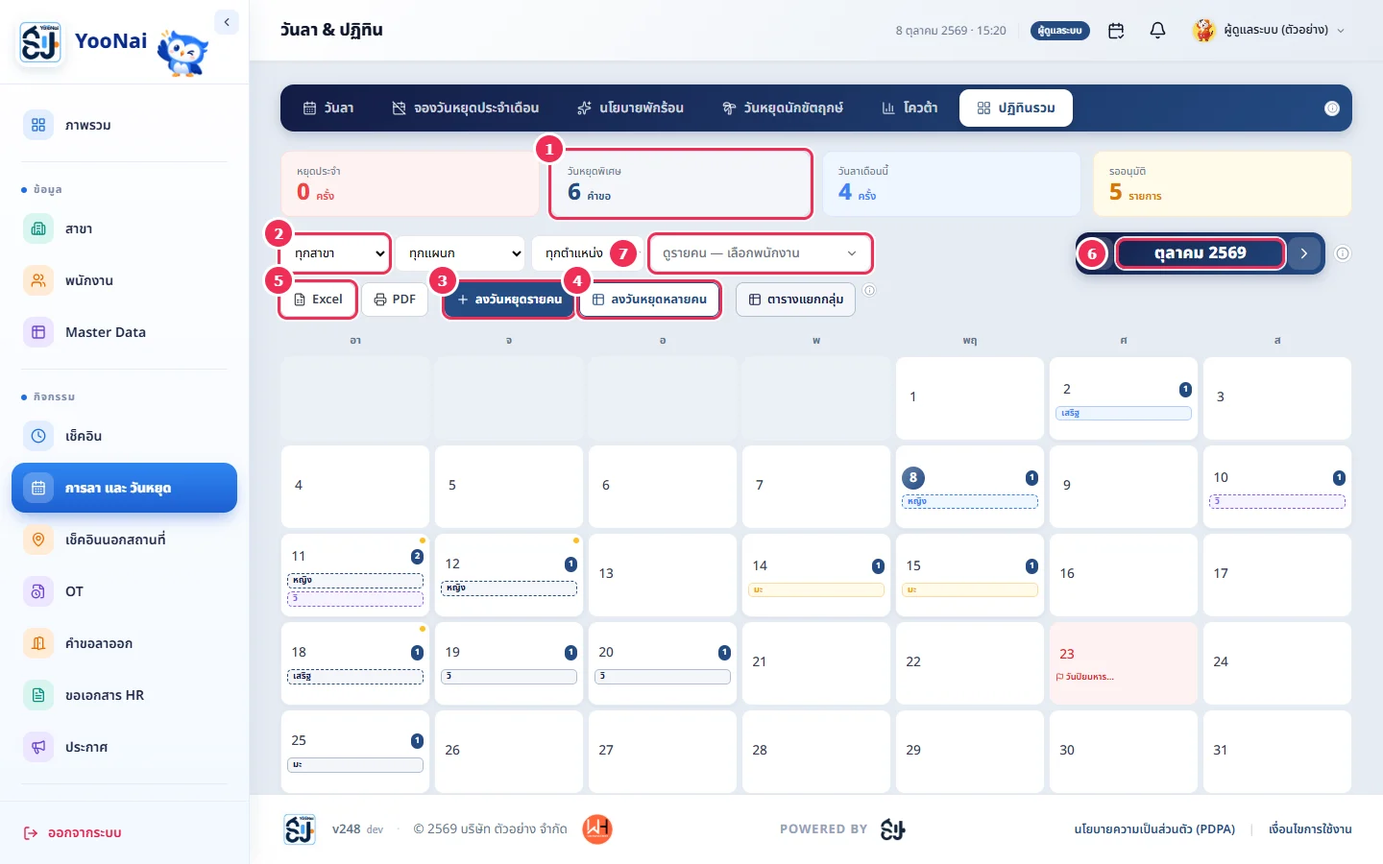
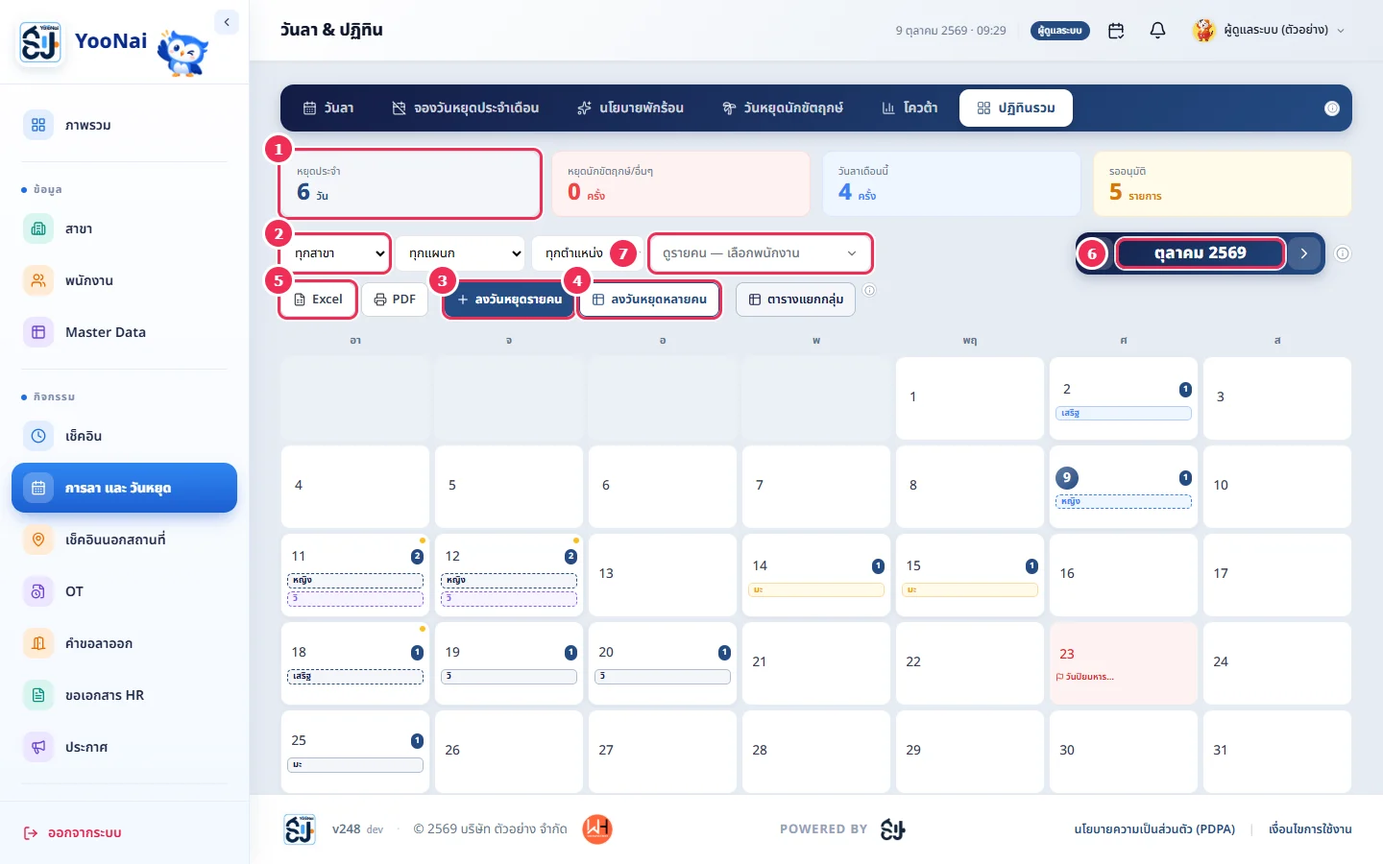
Docs: persona/journey/process doc; refresh team-calendar manual shot

diff --git a/scripts/manual-shots/shots_def.js b/scripts/manual-shots/shots_def.js
@@ -136,7 +136,7 @@ module.exports = [
     ] },
   { id: 'team-calendar', path: 'leave', setup: async (p, { clickText, sleep }) => { await clickText(p, 'ปฏิทินรวม', 'button, a, div'); await sleep(1500) },
     marks: [
-      { text: 'วันหยุดพิเศษ', tag: 'div', n: 1, card: true },
+      { text: 'หยุดประจำ', exact: true, tag: 'div', n: 1, card: true },
       { selector: 'select', n: 2, nth: 0 },
       { text: 'ลงวันหยุดรายคน', tag: 'button', n: 3 },
       { text: 'ลงวันหยุดหลายคน', tag: 'button', n: 4 },

diff --git a/docs/PERSONA_JOURNEY_PROCESS.md b/docs/PERSONA_JOURNEY_PROCESS.md
@@ -1,0 +1,198 @@
+# YooNai / TimeLine HR — User Persona, Journey Map และขั้นตอนการทำงาน
+
+> เอกสารนี้เขียนเพื่อนำเข้า NotebookLM แล้วสร้างสไลด์ — ทุกหัวข้อใหญ่ (`##`) = 1 กลุ่มสไลด์ · ตารางและรายการสั้นๆ ใช้เป็นเนื้อสไลด์ได้ตรงๆ
+> ที่มาของข้อมูล: โครงสร้างระบบจริง (`docs/SYSTEM_OVERVIEW.md`, `PRODUCT.md`) + ปัญหาที่ผู้ใช้แจ้งระหว่างพัฒนา
+> **หมายเหตุ:** Persona เป็น **proto-persona** สร้างจากบทบาทในระบบและปัญหาที่เกิดขึ้นจริง ชื่อเป็นชื่อสมมติ ยังไม่ได้ผ่านการสัมภาษณ์ผู้ใช้ — ควรยืนยันกับลูกค้าจริงก่อนนำเสนอเป็นผลวิจัย
+
+---
+
+## 1. ภาพรวมผลิตภัณฑ์ (สไลด์เปิด)
+
+**YooNai (TimeLine HR)** — ระบบ HR แบบ SaaS multi-tenant สำหรับบริษัท SME ไทย ขายให้ลูกค้าหลายบริษัทผ่าน Vendor
+
+| ส่วน | ผู้ใช้ | ช่องทาง |
+|---|---|---|
+| Admin (เว็บ) | HR, ผู้จัดการ, ผู้บริหาร, เจ้าของระบบ | Web App |
+| Employee (มือถือ) | พนักงานทุกคน | LINE LIFF |
+| Super Admin | ทีมผู้พัฒนา/ขาย (Vendor) | Web App แยก |
+
+**ความสามารถหลัก:** เช็คอินตามกะ (GPS / QR / Geofence) · ลา และ วันหยุด · จองวันหยุดประจำสัปดาห์ · OT · คำขอลาออก · ขอเอกสาร HR · ประกาศ · รายงาน · บันทึกกิจกรรม
+
+**หลักการออกแบบ:** ใช้ได้ทันทีโดยไม่ต้องฝึก · ข้อมูลที่ต้องการเจอใน 1–2 คลิก · ออกแบบสำหรับภาษาไทย · Workflow มาก่อนความสวย · ใช้ได้บนมือถือ
+
+---
+
+## 2. User Persona
+
+### Persona 1 — HR Admin ("พี่นุ่น", 34, ผู้ใช้หลัก)
+
+| หัวข้อ | รายละเอียด |
+|---|---|
+| บทบาท | HR/ธุรการ ดูแลพนักงาน 30–150 คน หลายสาขา |
+| ใช้ระบบ | ทุกวันบนคอมพิวเตอร์ในสำนักงาน |
+| เป้าหมาย | รู้ว่าวันนี้ใครมา/สาย/ลา · อนุมัติคำขอให้ทัน · ปิดรายงานสิ้นเดือนได้ไม่ต้องคีย์ซ้ำ |
+| งานประจำ | ตรวจเช็คอินตอนเช้า · อนุมัติลา/OT · ลงวันหยุดให้พนักงาน · ออกเอกสารรับรอง · ส่งรายงานให้ผู้บริหาร |
+| Pain point | ข้อมูลกระจาย (Excel, LINE กลุ่ม) · พนักงานลืมเช็คอินแล้วต้องลงแทน · ต้องไล่ดูว่าใครโควต้าหยุดเหลือเท่าไร · ลืมรหัสผ่านต้องรอคนช่วย |
+| ความคาดหวัง | หน้าเดียวเห็นภาพรวม · สีและสถานะแยกออกทันที · ไม่ต้องมีคู่มือหนา |
+| ความเสี่ยงถ้าระบบไม่ดี | กลับไปใช้ Excel · ตัวเลขขาด/สายผิด ทำให้ทะเลาะกับพนักงาน |
+
+### Persona 2 — หัวหน้าสาขา / หัวหน้าแผนก ("พี่โอ๊ต", 41)
+
+| หัวข้อ | รายละเอียด |
+|---|---|
+| บทบาท | Manager / DEPT_HEAD เห็นเฉพาะแผนก/สาขาที่ดูแล |
+| ใช้ระบบ | มือถือเป็นหลัก ระหว่างเดินงานหน้าร้าน |
+| เป้าหมาย | อนุมัติลา/OT เร็ว · รู้ว่ากะพรุ่งนี้คนพอไหม · ไม่ต้องเข้าเว็บบ่อย |
+| Pain point | แจ้งเตือนมาแล้วไม่รู้ว่าอนุมัติแล้วหรือยัง · ปฏิทินรวมอ่านยาก · ตารางบนมือถือเลื่อนยาก |
+| ความคาดหวัง | อนุมัติได้ในไม่กี่แตะ · ปัดเปลี่ยนหน้าบนมือถือได้ · เห็นเฉพาะข้อมูลที่รับผิดชอบ |
+
+### Persona 3 — พนักงานหน้างาน ("น้องเหมียว", 26)
+
+| หัวข้อ | รายละเอียด |
+|---|---|
+| บทบาท | พนักงานประจำกะ ทำงานตามสาขา |
+| ใช้ระบบ | มือถือผ่าน LINE ไม่ติดตั้งแอปเพิ่ม วันละ 2 ครั้ง (เข้า/ออก) |
+| เป้าหมาย | เช็คอินให้เสร็จใน 10 วินาที · ขอลา/จองวันหยุดโดยไม่ต้องทักหัวหน้า · เห็นวันหยุดและวันลาของตัวเอง |
+| Pain point | GPS ไม่แม่น เช็คอินไม่ผ่าน · ไม่แน่ใจว่าโดนหักเพราะสายหรือไม่ · ไม่รู้ว่าเหลือวันหยุดกี่วัน · หน้าจอค้างเลื่อนไม่ได้หลังเช็คอิน (เคยเกิด แก้แล้ว) |
+| ความคาดหวัง | หน้าจอเป็นมิตร ปุ่มใหญ่ ภาษาง่าย · ได้รับการยืนยันทันทีว่าเช็คอินสำเร็จ |
+
+### Persona 4 — ผู้บริหาร ("คุณบอส", 52, อ่านอย่างเดียว)
+
+| หัวข้อ | รายละเอียด |
+|---|---|
+| บทบาท | EXECUTIVE ดูข้อมูลทุกสาขา ไม่แก้ไข ไม่เช็คอินเอง |
+| ใช้ระบบ | ดูสรุปสัปดาห์ละไม่กี่ครั้ง |
+| เป้าหมาย | เห็นภาพรวมการมาทำงาน สาย ลา ต้นทุนค่าปรับ รายสาขา |
+| Pain point | ถูกนับเป็น "ยังไม่เช็ค/ขาด" ทั้งที่ไม่ต้องเช็คอิน (แก้แล้ว: ตั้งค่า "ไม่ต้องเช็คอิน") |
+| ความคาดหวัง | รายงานสรุปอ่านจบใน 1 หน้า · ไม่ต้องเรียนรู้เมนูเยอะ |
+
+### Persona 5 — เจ้าของระบบฝั่งบริษัทลูกค้า (Root Admin, "คุณแพร", 45)
+
+| หัวข้อ | รายละเอียด |
+|---|---|
+| บทบาท | ผู้ตัดสินใจซื้อ/ดูแลบัญชีของบริษัท มีสิทธิ์สูงสุดใน tenant |
+| เป้าหมาย | คุมว่าใครเข้าถึงข้อมูลอะไร · มอบสิทธิ์ให้ผู้ใช้อื่นเอง |
+| กติกาสำคัญ | เฉพาะ Root Admin เท่านั้นที่มอบหรือยกระดับสิทธิ์ให้บัญชีอื่นได้ · Manager เข้าถึงข้อมูลเท่า Admin ยกเว้นการมอบสิทธิ์ |
+| Pain point | ผู้ใช้ลืมรหัสผ่านแล้วต้องมาขอรีเซ็ต · อยากรู้ว่าใครแก้อะไร |
+
+### Persona 6 — ทีม Vendor / Super Admin (ผู้พัฒนาและขาย)
+
+| หัวข้อ | รายละเอียด |
+|---|---|
+| เป้าหมาย | เปิดบริษัทใหม่ได้เร็ว (สร้าง tenant, ตั้ง LINE OA) · ย้ายข้อมูลจากระบบเดิม · ดูแลหลายลูกค้าโดยไม่พัง |
+| Pain point | ย้ายข้อมูลจากระบบเก่า (Firebase) มีข้อมูลสาขายังไม่ map · ต้อง deploy 3 เว็บ + เซิร์ฟเวอร์ |
+
+---
+
+## 3. Journey Map
+
+### 3.1 Journey ของ HR Admin — วงจรหนึ่งเดือน
+
+| ช่วง | สิ่งที่ทำ | จุดสัมผัส | ความรู้สึก | Pain point | โอกาส / ที่ระบบทำแล้ว |
+|---|---|---|---|---|---|
+| 1. เริ่มใช้งาน | รับบัญชี ตั้งรหัสผ่าน สร้างสาขา กะ พนักงาน | หน้า Login, คู่มือ /manual | กังวล | ไม่รู้เริ่มตรงไหน | คู่มือในระบบพร้อมภาพจริง · ตั้งพิกัดสาขา+รัศมี |
+| 2. เช้าทุกวัน | ดูแดชบอร์ด ใครมา/สาย/ยังไม่เช็ค | Dashboard, หน้าเช็คอิน | ตื่นตัว | ปนกันระหว่าง "ลา/หยุด" กับ "ยังไม่เช็ค" | แยกสี หยุด/ลา ขึ้นก่อน · การ์ดสรุปกดดูรายชื่อได้ |
+| 3. ระหว่างวัน | พนักงานลืมเช็คอิน ลงบันทึกแทน | หน้าเช็คอิน → "+ ลงบันทึก" | หงุดหงิด | ต้องกรอกเวลา/กะเอง | ลงแทนได้ · สายตามเวลาจริง |
+| 4. อนุมัติ | อนุมัติลา OT ลาออก ขอเอกสาร | เมนูตามงาน + ตัวเลขแจ้งเตือนบนเมนู | โล่งเมื่อเคลียร์หมด | งานรออนุมัติกระจายหลายหน้า | ป้ายตัวเลขบนเมนู + กระดิ่ง |
+| 5. วางแผนวันหยุด | ดูปฏิทินรวม ลงวันหยุดรายคน/หลายคน | การลา และ วันหยุด → ปฏิทินรวม | ปวดหัวช่วงสิ้นเดือน | ใครหยุดวันไหนดูยาก · โควต้าไม่ชัด | มุมมองรายคน · ลงหลายคนพร้อมกัน · การ์ดสรุปรายเดือน |
+| 6. สิ้นเดือน | ดึงรายงาน ส่งผู้บริหาร ออกเอกสาร | รายงาน, Excel/PDF, ขอเอกสาร HR | เหนื่อยแต่เร่ง | คีย์ซ้ำ ข้อมูลไม่ตรงกัน | รายงานหลายมุม · เอกสารรับรองสร้างในระบบ |
+| 7. เมื่อมีปัญหา | ลืมรหัสผ่าน / แก้ข้อมูลผิด | หน้าลืมรหัสผ่าน, บันทึกกิจกรรม | ตื่นตระหนก | ต้องรอคนรีเซ็ต | OTP ทางอีเมล · audit log ตรวจย้อนหลัง |
+
+**อารมณ์โดยรวม:** เริ่มกังวล → มั่นใจเมื่อเห็นภาพรวมตอนเช้า → เครียดช่วงปิดเดือน → ลดลงเมื่อรายงานออกเอง
+
+### 3.2 Journey ของพนักงาน — หนึ่งวันทำงาน
+
+| ช่วง | สิ่งที่ทำ | จุดสัมผัส | ความรู้สึก | Pain point | ที่ระบบทำแล้ว |
+|---|---|---|---|---|---|
+| 1. เริ่มใช้ครั้งแรก | กดลิงก์จาก LINE ผูกบัญชีกับชื่อตัวเอง | LINE OA, LIFF | ลังเล | กลัวผูกผิดคน | เลือกชื่อจากรายการ + ยืนยัน |
+| 2. ก่อนเข้างาน | เปิดแอปผ่าน LINE เช็คอิน | หน้าเช็คอิน (มาสคอตนกฮูก) | เร่งรีบ | GPS ไม่แม่น เช็คอินไม่ผ่าน | โหมดแจ้งเตือน (WARN) / บล็อก (BLOCK) · ต้องมี GPS ในโหมดบล็อก · สแกน QR ได้ |
+| 3. ผลลัพธ์ | เห็นสถานะ ตรงเวลา/สาย | ป๊อปอัปผลลัพธ์ | โล่ง หรือ เสียใจ | ไม่รู้ว่าโดนหักเท่าไร | แสดงระดับสาย ค่าปรับ ชัดเจน |
+| 4. ระหว่างเดือน | จองวันหยุดประจำสัปดาห์ ขอลา | เมนูวันลา / หยุด | คาดหวัง | ไม่รู้โควต้าเหลือ ไม่รู้วันไหนจองได้ | ปฏิทิน "วันหยุดของฉัน" รวมหยุด ลา นักขัตฤกษ์ ตามสิทธิ |
+| 5. รออนุมัติ | รอผลจากหัวหน้า | แจ้งเตือน LINE | กังวล | ไม่รู้ว่าถึงไหนแล้ว | สถานะรออนุมัติ/อนุมัติ/ปฏิเสธ + แจ้งผลทาง LINE |
+| 6. ตรวจสอบ | ดูประวัติเช็คอิน | หน้าประวัติ | สบายใจ/สงสัย | ข้อมูลผิดแก้ไม่ได้เอง | ดูประวัติรายเดือน · แจ้ง HR แก้ |
+| 7. ต้องการเอกสาร | ขอใบรับรองเงินเดือน / รับรองการทำงาน | ขอเอกสาร | ใจร้อน | ต้องรอ HR พิมพ์ | ยื่นคำขอในระบบ HR สร้างเอกสารให้ |
+
+### 3.3 Journey ของหัวหน้า — การอนุมัติจากมือถือ
+
+| ช่วง | สิ่งที่ทำ | จุดสัมผัส | Pain point | ที่ระบบทำแล้ว |
+|---|---|---|---|---|
+| 1. ได้รับแจ้ง | มีคำขอลา/OT ใหม่ | LINE / ป้ายตัวเลขบนเมนู | แจ้งเตือนหลุด | ป้ายตัวเลข + กระดิ่ง |
+| 2. ตรวจ | ดูปฏิทินว่าคนพอไหม | ปฏิทินรวมทีม | ปฏิทินแน่น อ่านยาก | มุมมองรายคน · ปัดเปลี่ยนหน้าบนมือถือ |
+| 3. ตัดสินใจ | อนุมัติ/ปฏิเสธ | หน้าคำขอ | ไม่แน่ใจโควต้า | แสดงโควต้า ณ ตอนอนุมัติ |
+| 4. ติดตาม | ดูว่าเรียบร้อยไหม | บันทึกกิจกรรม | — | audit log ย้อนหลัง |
+
+---
+
+## 4. ขอบเขตงาน (Scope)
+
+### ขอบเขตที่ทำแล้ว (In Scope)
+- **Admin เว็บ:** แดชบอร์ด · สาขา/กะ · พนักงาน (ข้อมูลส่วนตัว นโยบาย สถานะ) · Master Data · เช็คอิน · การลา และ วันหยุด · เช็คอินนอกสถานที่ · OT · คำขอลาออก · ขอเอกสาร HR · ประกาศ · รายงาน 7 หมวด · บันทึกกิจกรรม · ตั้งค่า · คู่มือในระบบ
+- **Employee (LINE LIFF):** เช็คอิน · ประวัติ · ลา/วันหยุด · โปรไฟล์ · คู่มือสไลด์
+- **ความปลอดภัย:** แยก tenant · สิทธิ์ละเอียดต่อเมนู · OTP ลืมรหัสผ่านทางอีเมล · เฉพาะ Root Admin มอบสิทธิ์
+- **Infrastructure:** Fastify + Prisma + MariaDB บน VPS (Docker) · Vercel 3 โปรเจกต์ (admin / employee / superadmin)
+
+### อยู่นอกขอบเขต / ยังไม่ทำ
+- ระบบคำนวณเงินเดือนเต็มรูปแบบ
+- แอปมือถือ native (ใช้ LINE LIFF แทน)
+- KPI / คะแนนวินัยรวม (ได้วิเคราะห์ข้อมูลที่มีแล้ว ยังไม่สร้างหน้า)
+
+### งานค้าง / ข้อเสนอถัดไป
+- เตือนสาขาที่ยังไม่ปักพิกัด และแสดงสถานะ "ไม่ได้ตรวจรัศมี"
+- เก็บค่าความแม่นยำ GPS (accuracy) เพื่อแยกตำแหน่งจริงกับตำแหน่งประมาณ
+- จำกัดอัตราการขอ OTP ตาม IP · OTP สำหรับ Super Admin
+- ให้แดชบอร์ดนับวันหยุดเสาร์-อาทิตย์/นักขัตฤกษ์ในรายการ "ไม่ต้องเช็ค"
+- ตั้งอีเมลกู้รหัสผ่านให้ 8 บัญชีที่ยังไม่มี
+
+---
+
+## 5. ขั้นตอนการทำงาน (Work Process) — จากเก็บ Requirement ถึงปล่อยใช้งาน
+
+### ภาพรวม 9 ขั้นตอน
+
+```
+1 เก็บ Requirement → 2 วิเคราะห์ & กำหนดขอบเขต → 3 จัดลำดับความสำคัญ
+→ 4 ออกแบบ (UX/UI + ข้อมูล) → 5 พัฒนา → 6 ตรวจสอบ
+→ 7 ผู้ใช้รีวิว/อนุมัติ → 8 ปล่อยใช้งาน (Deploy) → 9 อัปเดตคู่มือ & เก็บ Feedback → (วนกลับข้อ 1)
+```
+
+### รายละเอียดแต่ละขั้น
+
+| # | ขั้นตอน | สิ่งที่ทำ | ผลลัพธ์ที่ได้ |
+|---|---|---|---|
+| 1 | **เก็บ Requirement** | รับคำขอจากผู้ใช้/ลูกค้า (ข้อความ ภาพหน้าจอ ตัวอย่างอ้างอิง) · สังเกตปัญหาจากการใช้งานจริง | รายการคำขอพร้อมภาพประกอบ |
+| 2 | **วิเคราะห์ & กำหนดขอบเขต** | ตรวจโค้ด/ข้อมูลจริงว่าปัญหาคืออะไร (เช่น สาขาไม่มีพิกัดจึงไม่ตรวจรัศมี) · แยกว่าเป็นบั๊ก ฟีเจอร์ใหม่ หรือเรื่องข้อมูล · ถามเฉพาะเมื่อการตัดสินใจเป็นของเจ้าของงานจริงๆ | ขอบเขตงานที่ชัด + ข้อเสนอ |
+| 3 | **จัดลำดับความสำคัญ** | บั๊กที่กระทบการใช้งานจริงมาก่อน (เช่น เลื่อนหน้าจอไม่ได้หลังเช็คอิน) → ฟีเจอร์ → ปรับดีไซน์ | คิวงาน |
+| 4 | **ออกแบบ** | ใช้ภาพอ้างอิงจากผู้ใช้ · รักษา tone เดียวกันทั้งฝั่ง admin และพนักงาน · วางโครงข้อมูล/Migration ถ้าต้องเพิ่มตาราง | แบบ UI + schema |
+| 5 | **พัฒนา** | แก้ทีละส่วน ตามแบบแผนโค้ดเดิม · เขียน Migration ด้วยมือ · เก็บความเข้ากันได้ย้อนหลัง | โค้ดที่เปลี่ยน |
+| 6 | **ตรวจสอบ** | `tsc --noEmit` (admin, employee, server) · `vitest` ฝั่ง server · ถ่ายภาพหน้าจอจำลองข้อมูลจริงด้วย Puppeteer เพื่อตรวจหน้าตา · ตรวจ error ในคอนโซล | ผ่าน typecheck/test + ภาพตรวจ |
+| 7 | **ผู้ใช้รีวิว/อนุมัติ** | รายงานผลเป็นภาษาไทยสั้นๆ พร้อมระบุสิ่งที่ยังไม่ได้ตรวจ · **ไม่ push ก่อนผู้ใช้สั่ง** | คำสั่ง "push" จากเจ้าของงาน |
+| 8 | **ปล่อยใช้งาน** | commit + push → Vercel build อัตโนมัติ 3 โปรเจกต์ · ถ้าแก้เซิร์ฟเวอร์: SSH → `git pull` → build Docker → `prisma migrate deploy` → `up -d` · ตรวจสถานะ Vercel ผ่าน GitHub status | ระบบ production เวอร์ชันใหม่ |
+| 9 | **อัปเดตคู่มือ & Feedback** | แก้หน้าจอ admin ทุกครั้ง → ต้องอัปเดตคู่มือในระบบ (ข้อความ + ภาพถ่ายใหม่) ในคอมมิตเดียวกัน · บันทึกสิ่งที่เรียนรู้ลง brain/ และ memory · รับ feedback รอบใหม่ | คู่มือตรงกับระบบ + ความรู้สะสม |
+
+### กฎการทำงานที่ยึดถือ
+1. **ไม่ push / deploy ก่อนได้รับอนุญาต** และไม่แตะ production config หรือ secret โดยไม่ถาม
+2. **ตรวจข้อมูลจริงแบบอ่านอย่างเดียว** ก่อนสรุปสาเหตุ (ไม่แก้ข้อมูล production เอง)
+3. **รายงานตามจริง** — ถ้ายังไม่ได้ตรวจส่วนไหน ต้องบอก
+4. **ภาพคู่มือต้องไม่มีข้อมูลจริง** — ถ่ายจากข้อมูลจำลอง
+5. **แยกสิทธิ์ชัด** — Manager = Admin ในการเข้าถึงข้อมูล ยกเว้นการมอบสิทธิ์ให้ผู้อื่น
+
+### ตัวอย่างวงจรจริง (Case Study สำหรับสไลด์)
+**เรื่อง: "เหมียวอยู่ในรัศมีด้วยหรือ?"**
+1. Requirement — ผู้ใช้ส่งภาพแผนที่ถามว่าพนักงานอยู่ในรัศมีเช็คอินหรือไม่
+2. วิเคราะห์ — ตรวจข้อมูลจริง พบว่าสาขาไม่มีพิกัด ระบบจึงข้ามการตรวจรัศมี และพิกัดของพนักงานมีลักษณะเป็นเลขกลมผิดปกติ
+3. ตัดสินใจ — ให้ผู้ใช้ปักพิกัดสาขาเอง (ข้อมูลของเขา) · เสนอเพิ่มการเตือนในระบบ
+4. ผลลัพธ์ — ผู้ใช้เข้าใจว่ารัศมี 2 ที่ (สาขา/กะ) ทำงานอย่างไร และต้องปักพิกัดก่อน
+
+---
+
+## 6. ตัวชี้วัดความสำเร็จ (Success Metrics) — เสนอสำหรับสไลด์ปิด
+
+| ตัวชี้วัด | เป้าหมาย |
+|---|---|
+| เวลาที่พนักงานใช้เช็คอิน | ≤ 10 วินาที |
+| HR ใช้งานได้ทันทีโดยไม่ต้องฝึก | ผ่านคู่มือในระบบอย่างเดียว |
+| งานรออนุมัติค้าง | ลดลง (วัดจากป้ายตัวเลขบนเมนู) |
+| การลงบันทึกแทนพนักงาน | ลดลงเมื่อ GPS/QR เสถียร |
+| อัตราคำขอรีเซ็ตรหัสผ่านถึงทีมงาน | เข้าใกล้ 0 หลังใช้ OTP |
+
+> ตัวเลขเป้าหมายเป็นข้อเสนอ ยังไม่ได้วัดจริง — ควรเก็บ baseline ก่อน
